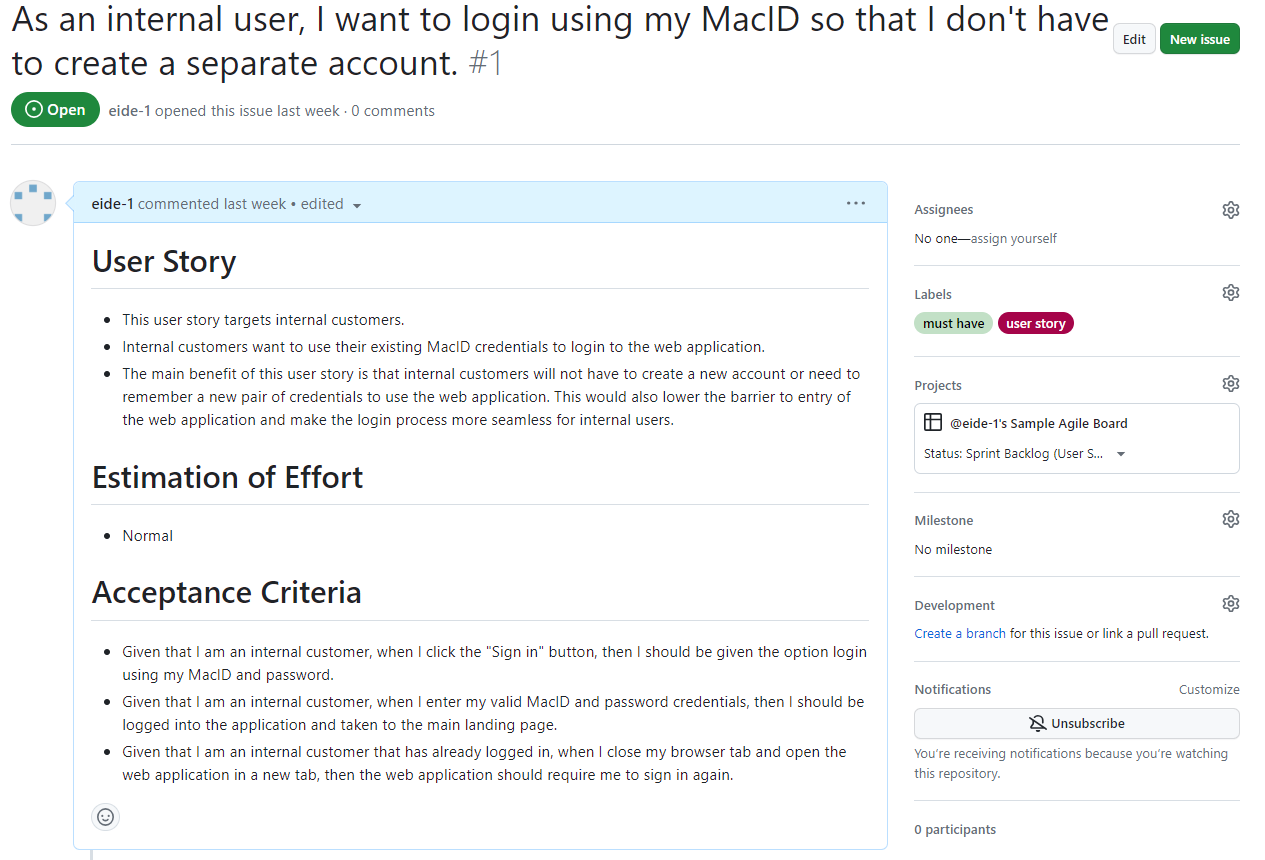
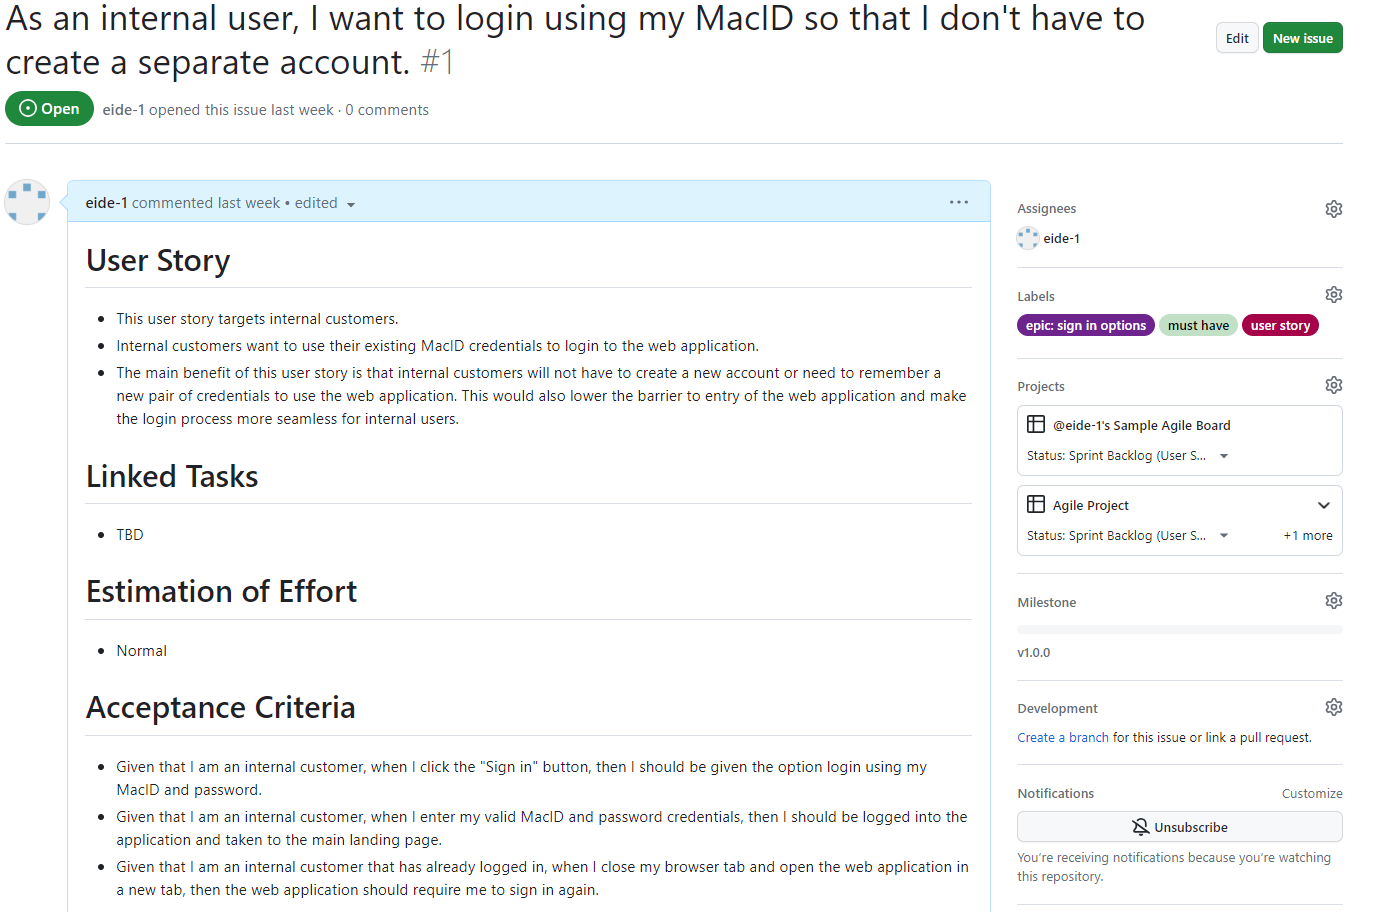
updated info

diff --git a/github-agile.md b/github-agile.md
@@ -20,7 +20,7 @@ Click the **Issues** button in the navigation bar
 Then click the **Labels** button in top right corner. 
  ![labels-button](assets/img/labels-button.png)
 
-Click the **New Label** button to create a new label and fill out the fields as shown below:
+Click the **New label** button to create a new label and fill out the fields as shown below:
 - **Label name:** user story
 - **Description:** A label that indicates that an issue is a valid user story
 - **Color:** any color that is not already used for another label
@@ -55,6 +55,23 @@ Repeat this process above and create 4 new labels detailed the different priorit
 	- **Color:** any color that is not already used for another label
 
 ![priority-labels](assets/img/priority-labels.png)
+## Create Milestone
+
+We will now add a milestone to our project to represent the first sync point.
+
+Navigate to an existing GitHub repository or create a new one for the purposes of this learning module. 
+
+Click the **Issues** button in the navigation bar 
+![issues-button](assets/img/issues-button.png)
+
+Then click the **Milestones** button in top right corner. 
+
+Click the **New milestone** button to create a new label and fill out the fields as shown below:
+- **Title:** v1.0.0
+- **Due date:** leave blank for now
+- **Description:** The first milestone in this project representing the first stable release.
+
+Finally, click **Create milestone**.
 ## Create Templates
 
 We will now create an issue template that we will use for the issues that represent user stories in our repository.
@@ -85,6 +102,9 @@ Fill out the fields as shown below:
   - What’s the overall benefit they’re trying to achieve? How does it fit into the bigger picture?
 - You can use the following format for user stories: "As a <type of user>, I want to <perform some task> so that I can <achieve some goal>."
 
+# Linked Tasks
+- Enter linked tasks here using the # sign
+
 # Estimation of Effort
 - Provide an estimate of the amount of work that this user story will require to be completely and successfully implemented using the following estimation scale:
   - Not Specified
@@ -113,16 +133,14 @@ Repeat the process outlined above to create the task template with the following
 - **About:** A template that should be used when creating tasks in GitHub Issues.
 - **Description:**
 ```
-# Enter Task Name Here
+# Task Description
+- Describe the new feature here.  
 
-### Linked User Story (-ies)
-Link user story (-ies) to this task here
+# Linked User Story (-ies)
+- Link user story (-ies) to this task here
 
-### Task Description
-Describe the new feature here.  
-
-### Subtasks
-List subtasks here.  
+# Subtasks
+- List subtasks here. 
 
 ```
 - **Label:** task
@@ -320,6 +338,9 @@ Next, fill out the body of the user story. The text provided below is an example
 - Internal customers want to use their existing MacID credentials to login to the web application.
 - The main benefit of this user story is that internal customers will not have to create a new account or need to remember a new pair of credentials to use the web application. This would also lower the barrier to entry of the web application and make the login process more seamless for internal users.
 
+# Linked Tasks
+- TBD
+
 # Estimation of Effort
 - Normal
 
@@ -333,7 +354,7 @@ In the "User Story" section, we answered the primary questions outlined in the u
 
 Make sure to add the "user story" label to this issue. Furthermore, given that this user story relates directly to the security of our web application and since we cannot ship a web application that does not meet the minimum security requirements, we classified this user story as a "Must Have" as shown by the label. 
 
-![sso-user-story](assets/img/sso-user-story.png)
+This user story represents a feature that should be part of the first stable release, click on **Milestone** in the right side bar and select **v1.0.0**.
 
 Our user story is part of a bigger epic that centers around giving customers multiple sign in options to accommodate both internal and external users. The epic is defined in an external Word document as shown below:
 
@@ -354,7 +375,7 @@ Click **Create label** after entering the label information.
 
 Finally, go back to the user story and the newly created epic label.
 
-![final-user-story](assets/img/final-user-story.png)
+![sso-user-story](assets/img/sso-user-story.png)
 
 ## Add Another User Story
 
@@ -369,6 +390,9 @@ Add the following description to the body of the user story:
 - External customers want to use their existing Google account credentials to login to the web application.
 - The main benefit of this user story is that external customers will not have to create a new account or need to remember a new pair of credentials to use the web application. This would also lower the barrier to entry of the web application and make the login process more seamless for external users.
 
+# Linked Tasks
+- TBD
+
 # Estimation of Effort
 - Normal
 
@@ -378,7 +402,7 @@ Add the following description to the body of the user story:
 - Given that I am an external customer that has already logged in, when I close my browser tab and open the web application in a new tab, then the web application should require me to sign in again.
 ```
 
-Make sure to tag the user story with the "user story", "must have" and "epic: sign in options" labels.
+Make sure to tag the user story with the "user story", "must have" and "epic: sign in options" labels and the v1.0.0 milestone.
 
 ![external-user-story](assets/img/external-user-story.png)
 ## Add User Stories to Agile Board
@@ -426,16 +450,14 @@ Select Task from the dropdown menu to load in the task template.
 
 Update the task body with the following information:
 ```
-# Add MacID SSO using MS Azure and the msal-react library
+# Linked User Story (-ies)
+- #1 
 
-### Linked User Story (-ies)
-#1 
-
-### Task Description
+# Task Description
 - Add the ability to sign into the web application using valid MacID credentials
 - We will be using the `msal-react` library to enable SSO using MS Azure
 
-### Subtaks
+# Subtaks
 - Register SPA in MS Azure AD
 - Create environment and authentication configuration files
 - Wrap template in `MsalProvider` component
@@ -451,6 +473,10 @@ Notice that we linked a user story by entering a **pound sign** (**#**) and then
 ![linking-story](assets/img/linking-story.png)
 
 Make sure to tag the issue with the **task** label we created earlier.
+
+Remember to go back to the user story and update the **Linked Tasks** section as shown below:
+
+![sso-linked-tasks](assets/img/sso-linked-tasks.png)
 ## Move Tasks through Containers
 
 Once a developer starts working on a task, they will create a branch with the desired changes.
@@ -481,7 +507,7 @@ First, you will need to select the date fields, by clicking on **Date fields** a
 
 ![set-date-fields](assets/img/set-date-fields.png)
 
-After doing the step above, you will be able to see the user stories and task overlaid on top of the calendar period that corresponds to the current iteration.
+After doing the step above, you will be able to see the user stories and tasks overlaid on top of the calendar period that corresponds to the current iteration.
 
 ![iteration-items](assets/img/iteration-items.png)
 ## Using the Table View
